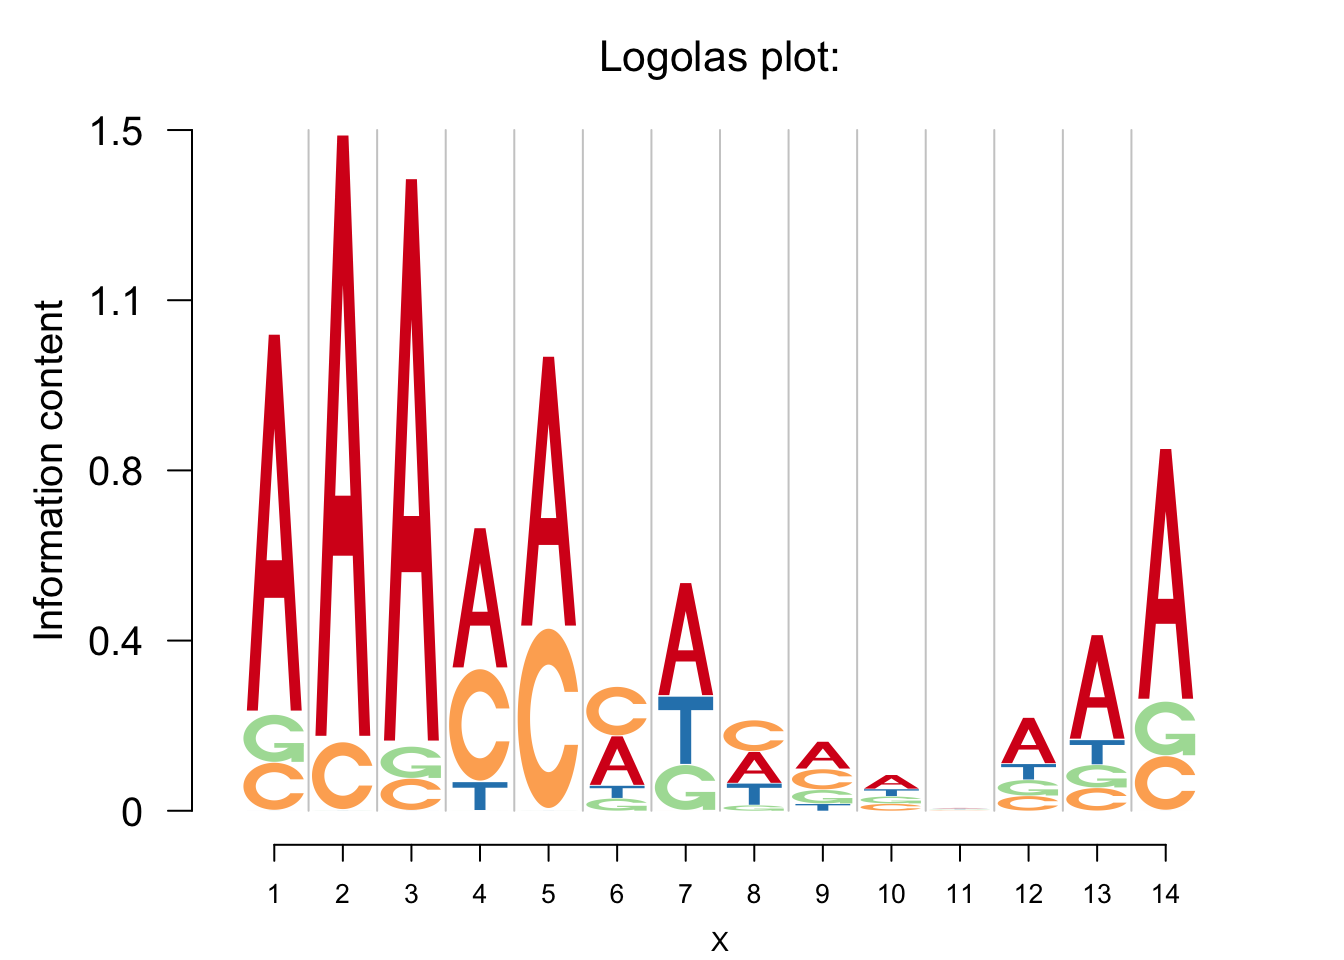
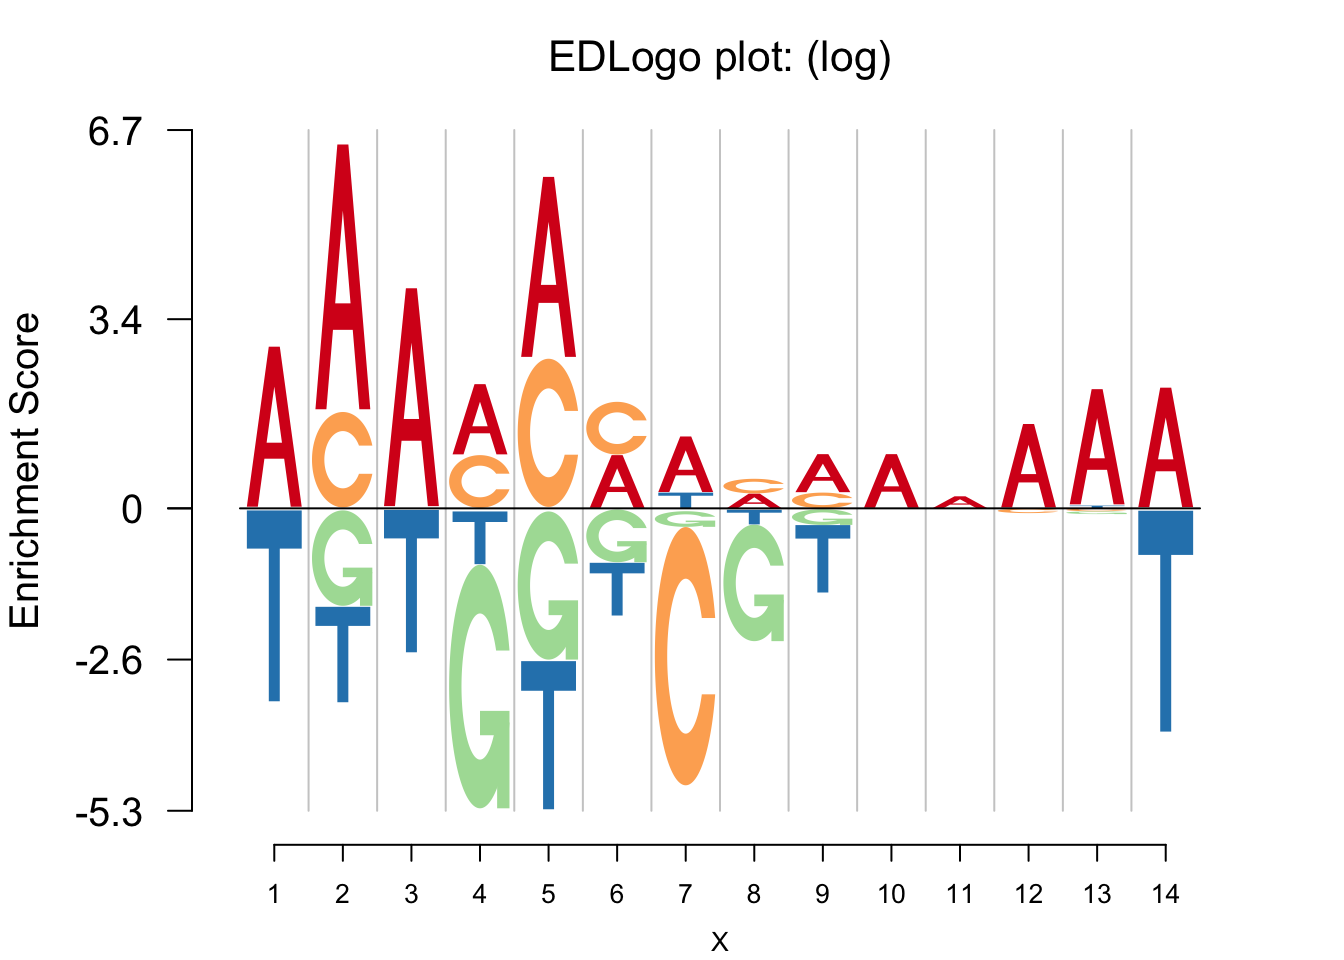
fixed nomenclature

diff --git a/docs/nomenclature.html b/docs/nomenclature.html
@@ -93,7 +93,7 @@ shared across the workflowr files. -->
 <p><strong>Last updated:</strong> 2017-11-14</p>
 <!-- Insert the code version (Git commit SHA1) if Git repository exists and R
  package git2r is installed -->
-<p><strong>Code version:</strong> 90f571a</p>
+<p><strong>Code version:</strong> 521b5aa</p>
 <p>IUPAC has a specific nomenclature to call bases at each position of the sequence based on their relative probabilities of occurrence. See the nomenclature <a href="https://www.bioinformatics.org/sms/iupac.html">here</a>.</p>
 <p>In the package <code>atSNP</code> by Sunduz Keles’ lab, a <code>GetIUPACSequence</code> function has been proposed to generate a consensus sequence based on IUPAC nomenclature from the position weight matrix.</p>
 <pre class="r"><code>library(Logolas)
@@ -107,10 +107,8 @@ GetIUPACSequence(t(pwm))</code></pre>
 <pre><code>[1] &quot;AAAMMMWMMAAAAA&quot;</code></pre>
 <p>In <code>Logolas</code>, we can use the scoring scheme in an EDLogo plot to call the bases at each position and generate a new consensus sequence based on our own nomenclature that equally highlights enrichment and depletion.</p>
 <pre class="r"><code>color_profile=list(&quot;type&quot; = &quot;per_row&quot;,&quot;col&quot; = RColorBrewer::brewer.pal(4,name =&quot;Spectral&quot;))
-logomaker(pwm,color_profile = color_profile,frame_width = 1)</code></pre>
+nlogomaker(pwm,logoheight = &#39;log&#39;,color_profile = color_profile,frame_width = 1)</code></pre>
 <p><img src="figure/nomenclature.Rmd/unnamed-chunk-2-1.png" width="672" style="display: block; margin: auto;" /></p>
-<pre class="r"><code>nlogomaker(pwm,logoheight = &#39;log&#39;,color_profile = color_profile,frame_width = 1)</code></pre>
-<p><img src="figure/nomenclature.Rmd/unnamed-chunk-2-2.png" width="672" style="display: block; margin: auto;" /></p>
 <p>In this nomenclature, we use uppercase of the symbol to depict enrichment and lowercase of a symbol to depict depletion of that symbol.</p>
 <pre class="r"><code>GetConsensusSeq(pwm)</code></pre>
 <pre><code>[1] &quot;A A A (AC) (AC) (AC) c g N N N A A (At)&quot;</code></pre>
